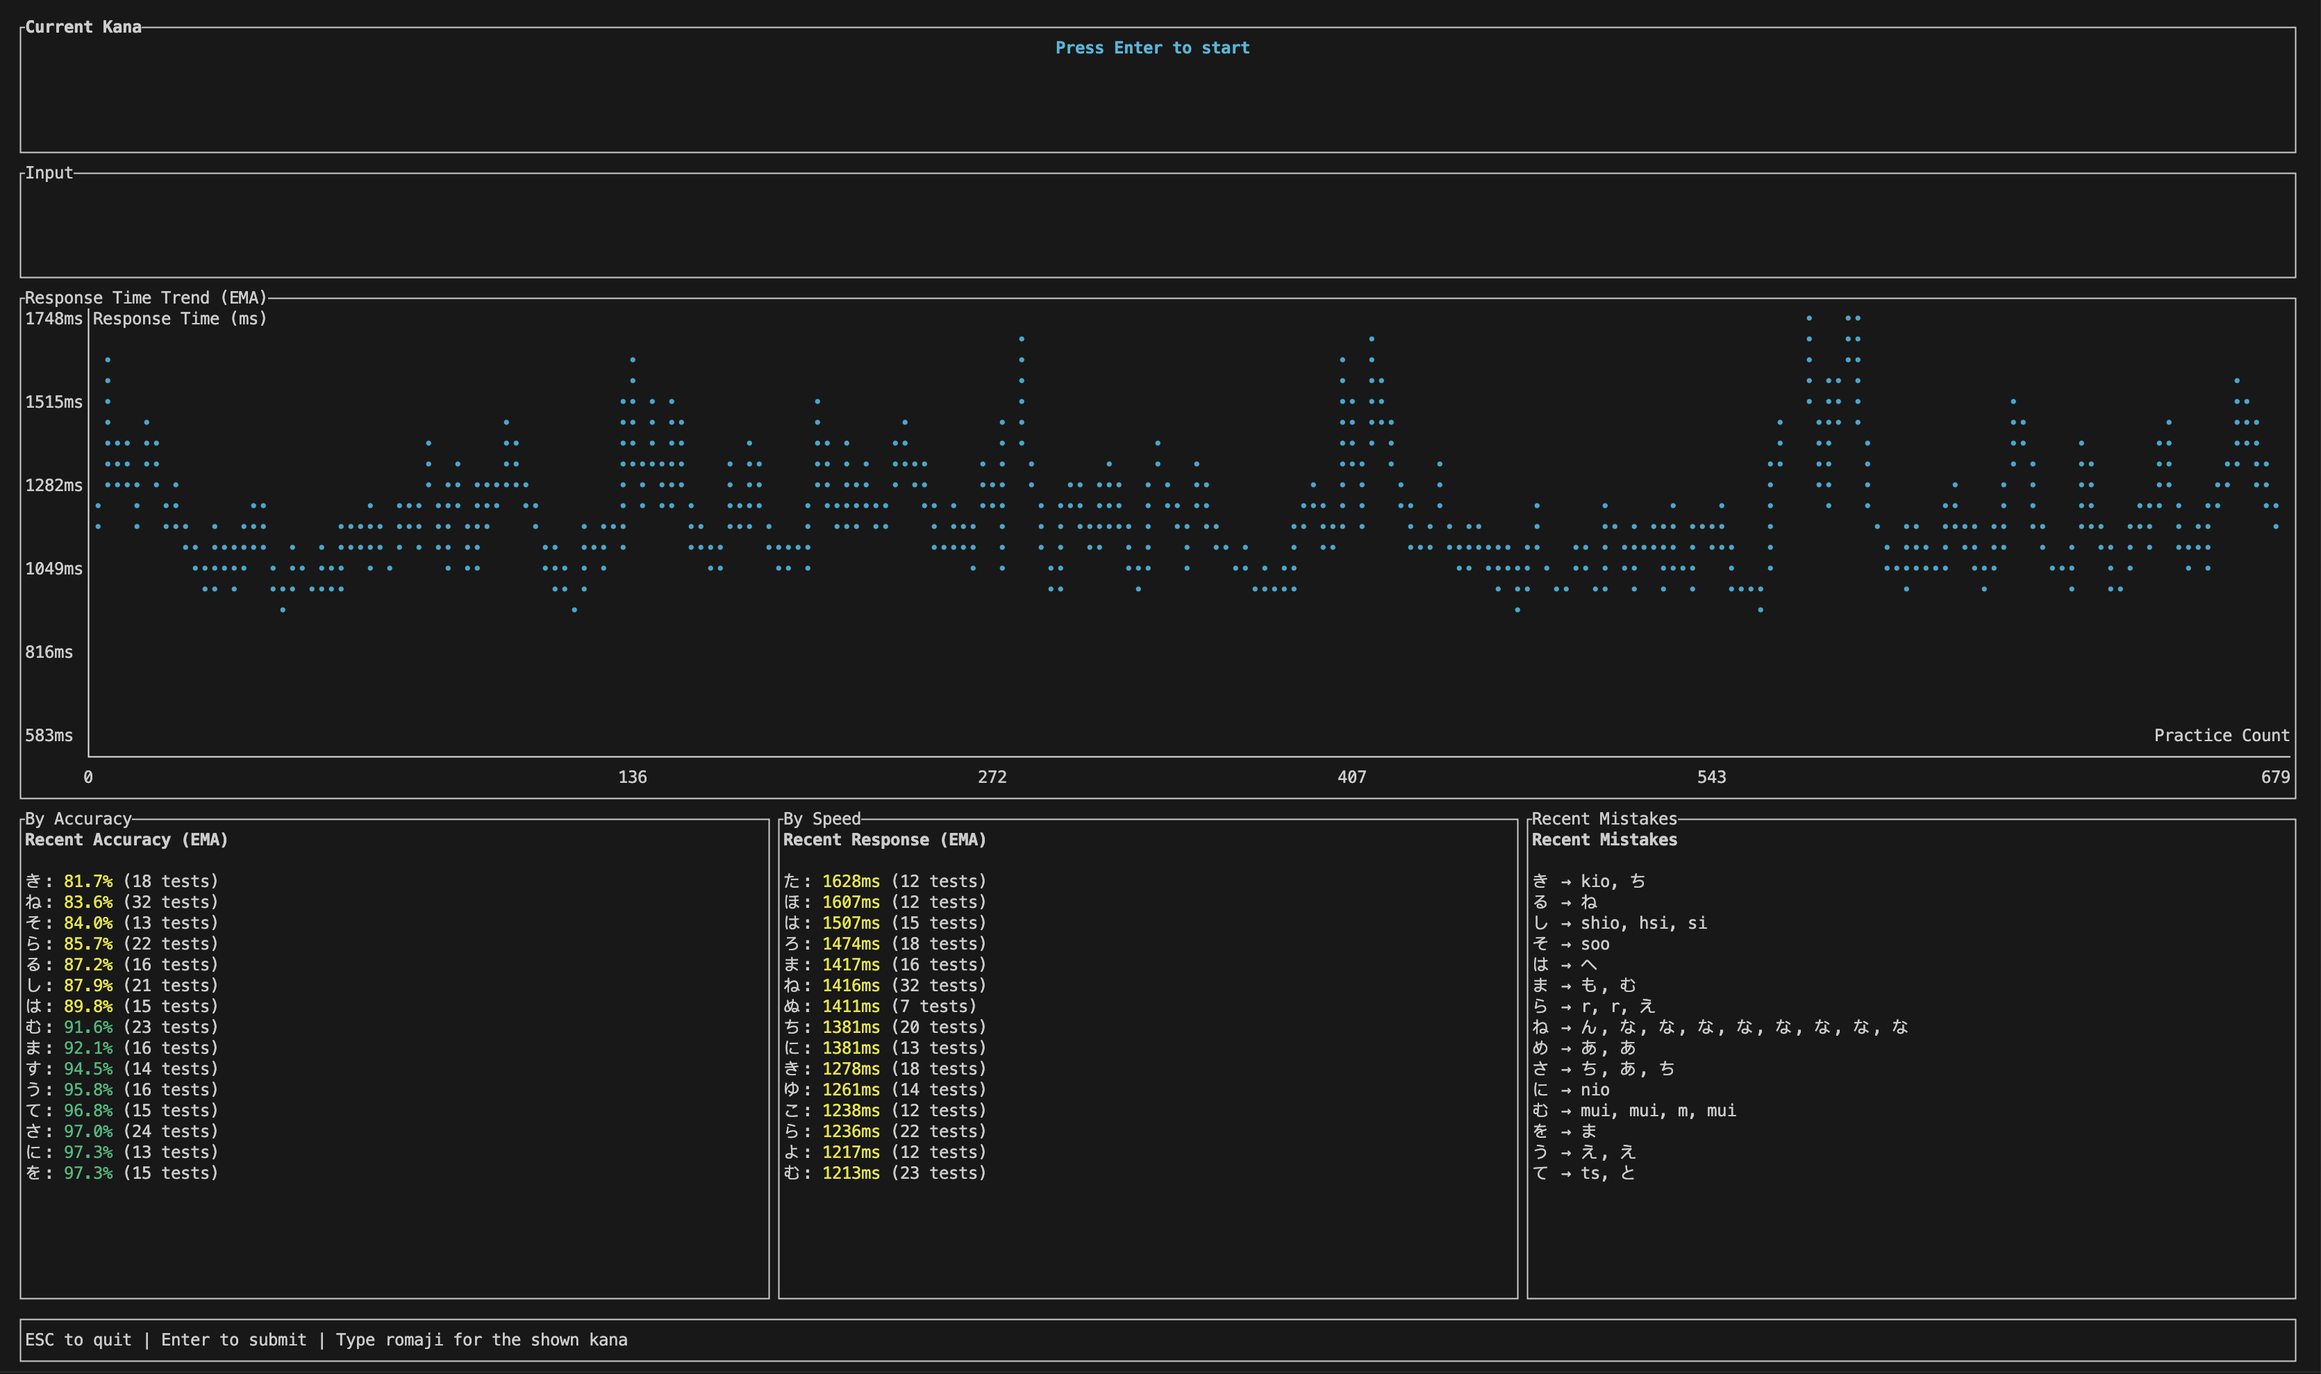
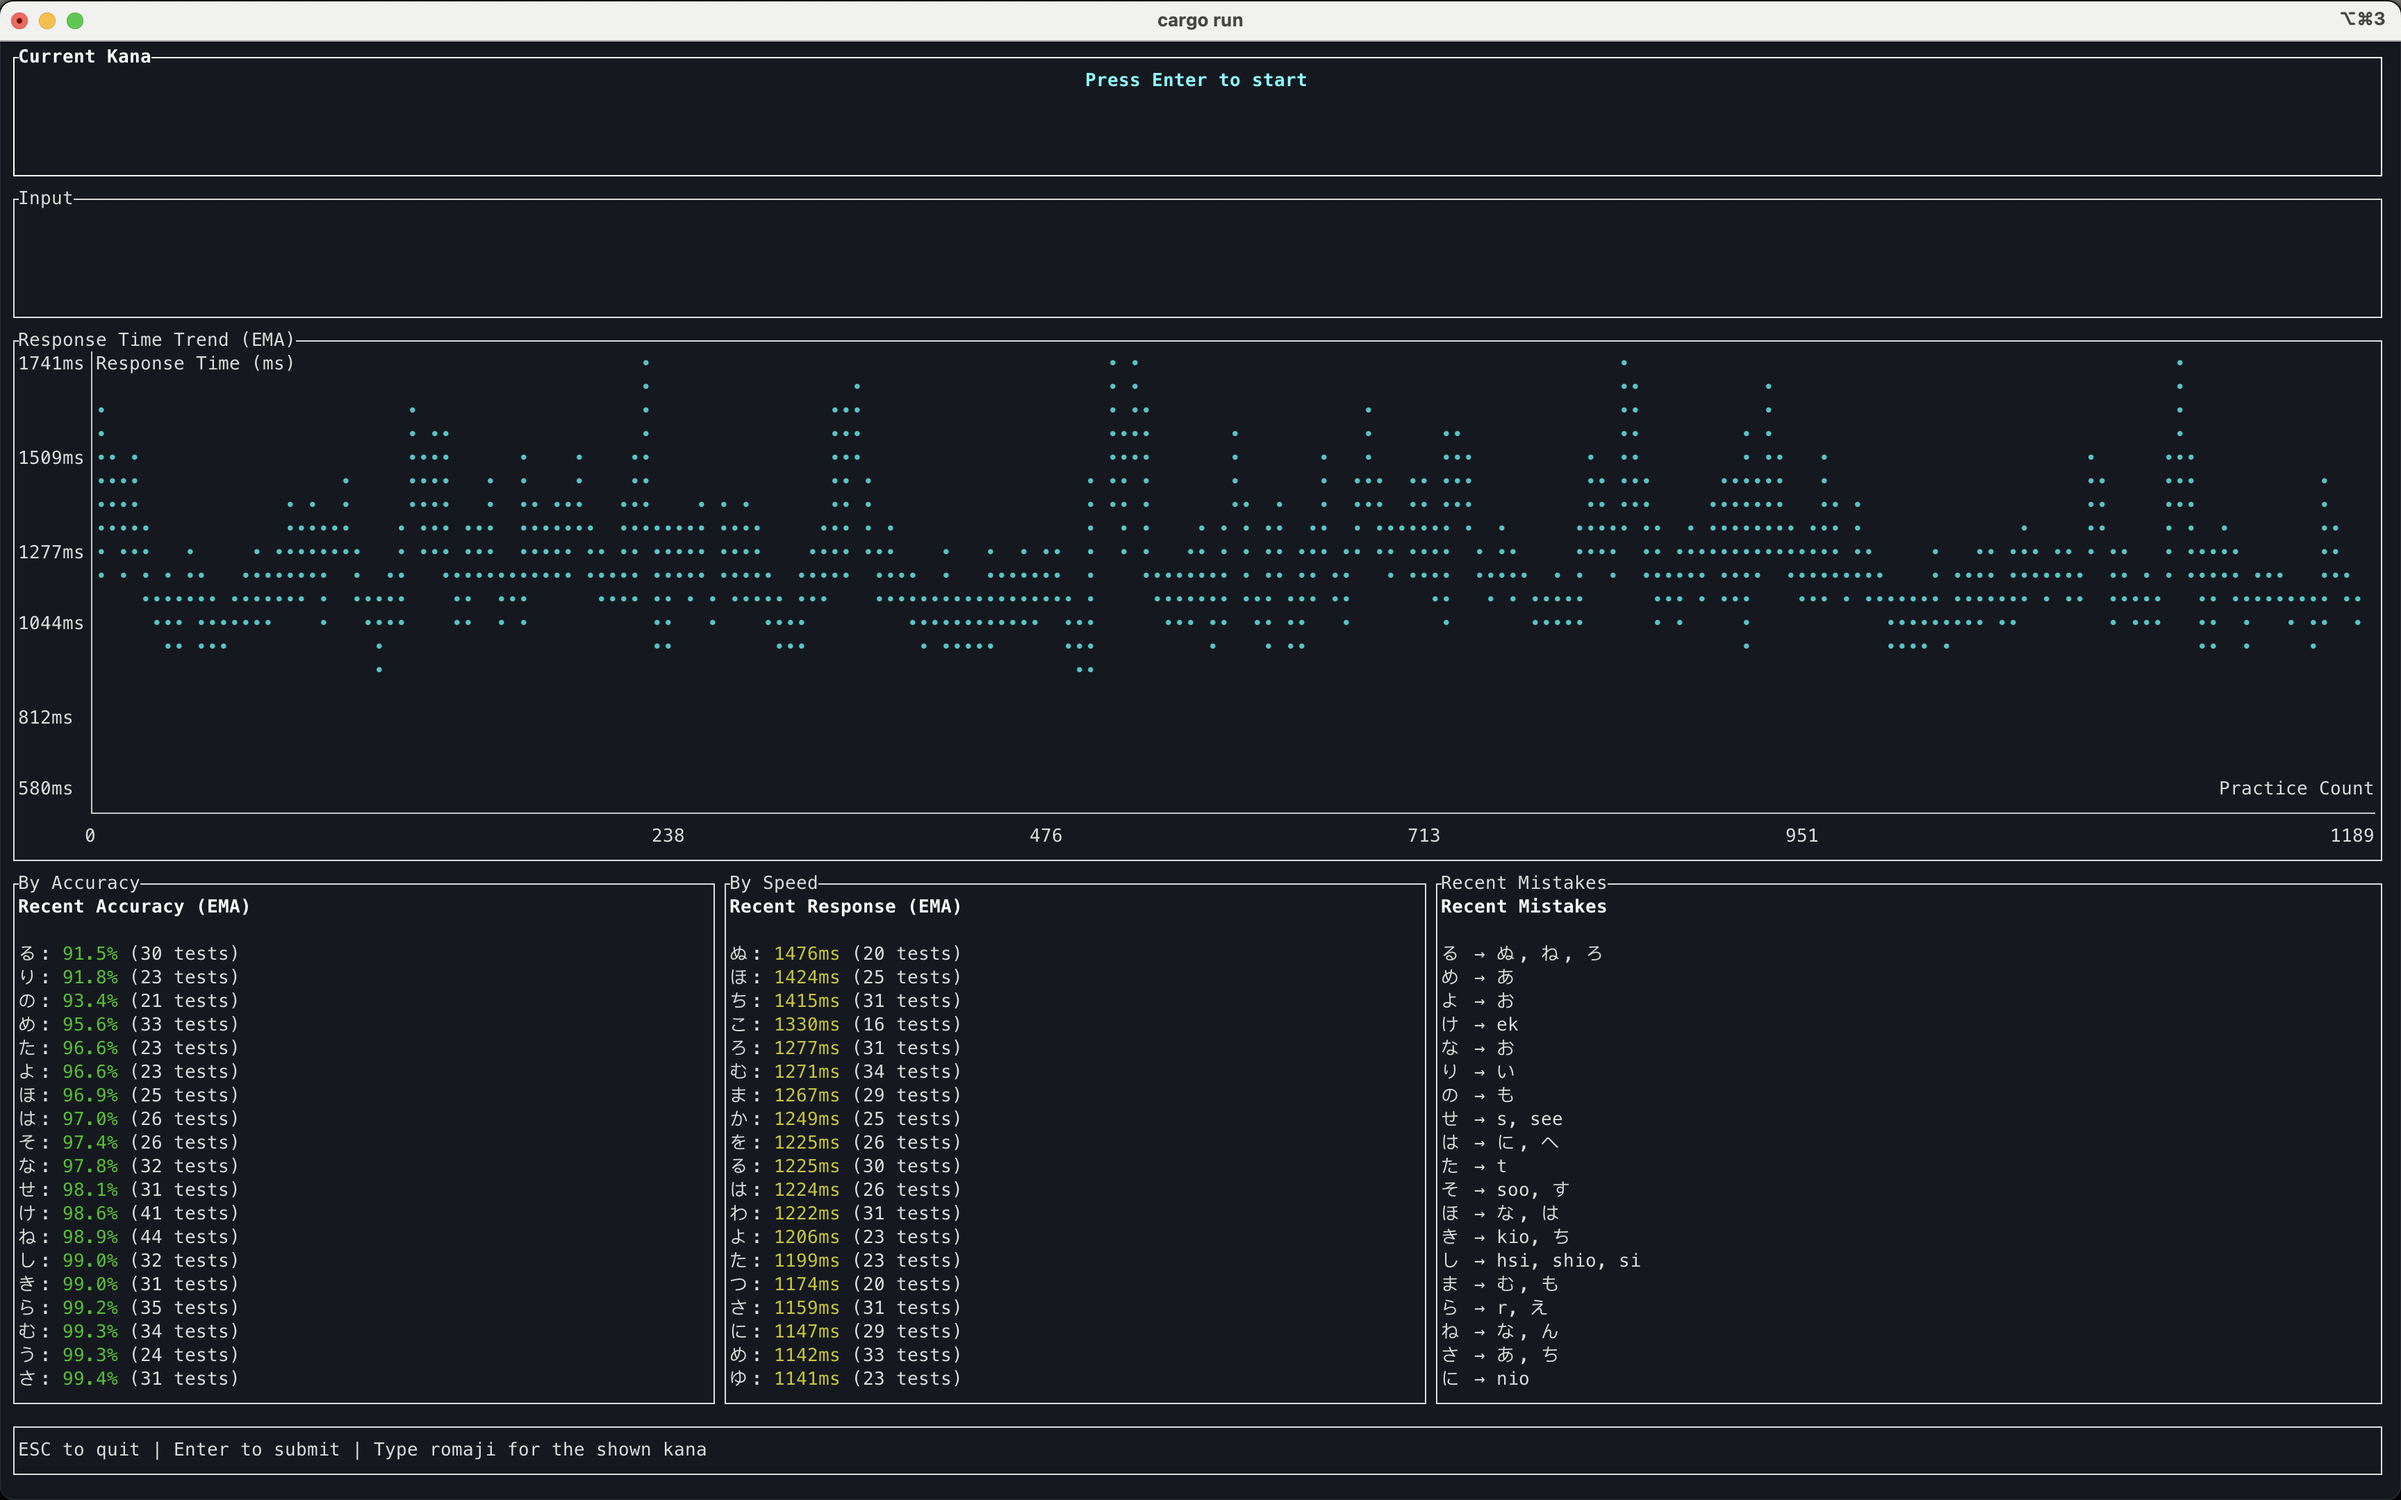
chore: add new demo

diff --git a/src/app.rs b/src/app.rs
@@ -57,15 +57,9 @@ impl App {
             PracticeMode::All => ALL_KANA,
         };
 
-        info!(
-            practice_mode = ?self.state.practice_mode,
-            kana_set_size = kana_set.len(),
-            "Selecting next kana"
-        );
-
         let now = Utc::now();
         
-        let mut weights: Vec<(f64, &str)> = kana_set
+        let weights: Vec<(f64, &str)> = kana_set
             .iter()
             .map(|&(kana, _)| {
                 let stats = self.state.history.character_stats
@@ -73,30 +67,38 @@ impl App {
                     .or_insert_with(CharacterStats::new);
                 
                 let weight = stats.calculate_weight(now);
-                
-                debug!(
-                    kana = kana,
-                    weight = weight,
-                    ema_accuracy = stats.exp_avg_accuracy,
-                    ema_response = stats.exp_avg_response,
-                    appearances = stats.appearances,
-                    "Kana weight calculation"
-                );
-                
                 (weight, kana)
             })
             .collect();
 
-        weights.sort_by(|a, b| b.0.partial_cmp(&a.0).unwrap());
+        let min_weight = weights.iter().map(|(w, _)| *w).fold(f64::INFINITY, f64::min);
+        let max_weight = weights.iter().map(|(w, _)| *w).fold(f64::NEG_INFINITY, f64::max);
+        let range = max_weight - min_weight;
+        
+        let normalized_weights: Vec<f64> = if range > 0.0 {
+            weights.iter().map(|(w, _)| {
+                // Normalize to [1, 10] range to maintain positive weights
+                1.0 + 9.0 * (w - min_weight) / range
+            }).collect()
+        } else {
+            vec![1.0; weights.len()]
+        };
+
         debug!(
-            highest_weight = weights.first().map(|(w, k)| format!("{}: {:.3}", k, w)),
-            lowest_weight = weights.last().map(|(w, k)| format!("{}: {:.3}", k, w)),
-            mean_weight = weights.iter().map(|(w, _)| w).sum::<f64>() / weights.len() as f64,
-            "Weight distribution"
+            min_weight = min_weight,
+            max_weight = max_weight,
+            weights_range = range,
+            normalized_weights = ?normalized_weights,
+            "Weights normalization"
         );
 
         let (weights_only, _): (Vec<f64>, Vec<&str>) = weights.into_iter().unzip();
-        let dist = WeightedIndex::new(&weights_only)
+        debug!(
+            weights_only = ?weights_only,
+            "Weights only"
+        );
+
+        let dist = WeightedIndex::new(&normalized_weights)
             .map_err(|e| KanaError::Terminal(e.to_string()))?;
         let mut rng = rand::thread_rng();
         
@@ -308,9 +310,9 @@ impl App {
         let chunks = Layout::default()
             .direction(Direction::Horizontal)
             .constraints([
-                Constraint::Percentage(33),
-                Constraint::Percentage(33),
-                Constraint::Percentage(34),
+                Constraint::Percentage(30),
+                Constraint::Percentage(30),
+                Constraint::Percentage(40),
             ])
             .split(area);
 
@@ -356,7 +358,6 @@ impl App {
             chunks[1]
         );
 
-        // Maintain mistakes as a ring buffer of max 100 items
         let mistakes_text = self.render_mistakes_column(max_display_items);
         f.render_widget(
             Paragraph::new(mistakes_text)
@@ -372,16 +373,26 @@ impl App {
             ]),
             Line::from(""),
         ];
-    
+
+        let romaji_to_kana: HashMap<&str, &str> = ALL_KANA.iter()
+            .map(|&(kana, romaji)| (romaji, kana))
+            .collect();
+
         let mut mistakes_map: HashMap<String, BTreeSet<String>> = HashMap::new();
         let mut latest_times: HashMap<String, DateTime<Utc>> = HashMap::new();
-    
+
         for (kana, stats) in &self.state.history.character_stats {
             for mistake in &stats.mistakes {
+                let wrong_input = if let Some(wrong_kana) = romaji_to_kana.get(mistake.input.as_str()) {
+                    wrong_kana.to_string()
+                } else {
+                    mistake.input.clone()
+                };
+
                 mistakes_map
                     .entry(kana.clone())
                     .or_insert_with(BTreeSet::new)
-                    .insert(mistake.input.clone());
+                    .insert(wrong_input);
                 
                 latest_times
                     .entry(kana.clone())
@@ -389,25 +400,25 @@ impl App {
                     .or_insert(mistake.timestamp);
             }
         }
-    
+
         let mut mistake_entries: Vec<(String, BTreeSet<String>, DateTime<Utc>)> = 
             mistakes_map.into_iter()
-                .map(|(kana, wrongs)| (
-                    kana.clone(),
-                    wrongs,
-                    latest_times.get(&kana).cloned().unwrap_or_else(Utc::now)
-                ))
-                .collect();
-    
+            .map(|(kana, wrongs)| (
+                kana.clone(),
+                wrongs,
+                latest_times.get(&kana).cloned().unwrap_or_else(Utc::now)
+            ))
+            .collect();
+
         mistake_entries.sort_by(|a, b| b.2.cmp(&a.2));
-    
+
         for (kana, wrongs, _) in mistake_entries.into_iter().take(max_items) {
             let wrong_inputs = wrongs.into_iter().collect::<Vec<_>>().join(", ");
             text.push(Line::from(vec![
                 Span::raw(format!("{} → {}", kana, wrong_inputs))
             ]));
         }
-    
+
         text
     }
     
